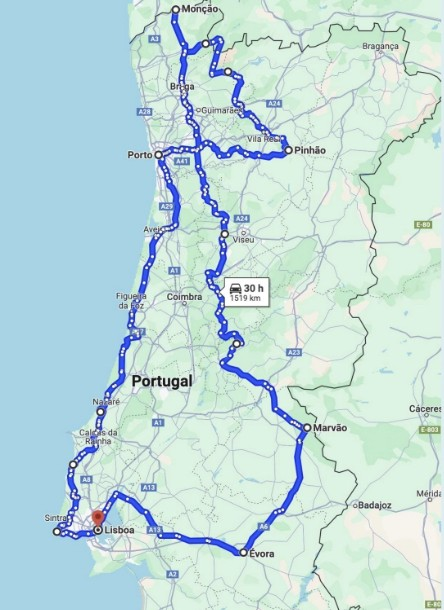
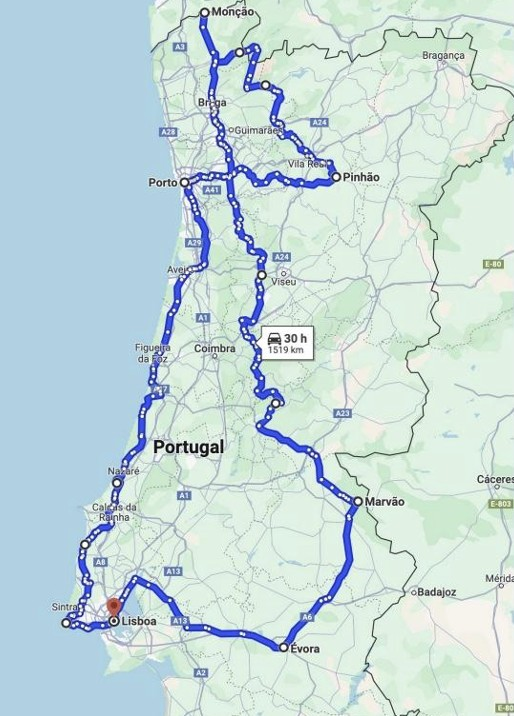
c

diff --git a/index.html b/index.html
@@ -15,12 +15,12 @@
 <main class="wrap">
 <section class="hero hero-split">
 <div><p class="kicker">Motorcycle rides · 2024</p><h1>Portugal</h1>
-<dl class="stats"><div class="stat"><dt>Rides</dt><dd>2</dd></div><div class="stat"><dt>Days on the road</dt><dd>14</dd></div><div class="stat"><dt>Years</dt><dd>2024</dd></div></dl></div>
+<dl class="stats"><div class="stat"><dt>Rides</dt><dd>1</dd></div><div class="stat"><dt>Days on the road</dt><dd>9</dd></div><div class="stat"><dt>Years</dt><dd>2024</dd></div></dl></div>
 <svg class="silhouette" viewBox="0 0 600 400" preserveAspectRatio="xMidYMid meet" role="img" aria-label="Outline of Portugal"><path d="M246,21L251,16L257,13L260,11L272,8L275,6L279,6L279,8L281,11L283,14L283,15L279,22L278,25L281,30L281,31L282,31L286,31L292,28L296,26L297,27L309,25L312,27L314,28L319,30L326,30L334,27L337,25L338,22L338,20L339,19L341,18L344,19L348,21L357,21L359,20L362,20L366,22L371,21L374,24L375,27L375,33L375,40L376,42L379,43L385,43L390,45L393,48L395,51L395,53L393,55L391,59L384,65L375,71L367,78L362,86L356,90L354,92L353,94L358,104L359,112L360,121L359,124L359,134L358,137L358,140L360,142L360,145L357,148L352,152L348,155L347,158L348,160L354,167L355,169L355,176L351,186L347,193L347,193L342,195L323,195L318,197L319,198L323,206L328,211L330,212L331,221L339,236L347,238L349,242L349,248L347,254L342,260L336,264L333,268L333,273L331,279L330,284L329,287L343,308L351,307L352,307L350,312L348,318L345,319L339,320L332,328L327,337L323,341L320,352L320,356L322,363L326,381L321,382L301,394L295,394L283,389L263,387L256,386L248,389L242,389L236,393L233,392L237,382L244,363L243,351L245,341L243,330L240,324L244,307L244,299L240,288L252,290L248,285L244,283L241,283L238,283L227,287L222,289L220,288L221,281L218,272L222,270L227,269L232,266L234,261L233,254L236,247L245,241L240,242L235,245L227,259L225,266L218,268L212,269L209,268L205,267L205,262L205,258L208,250L209,238L212,228L212,225L211,221L214,217L218,215L224,206L232,185L242,162L242,159L239,157L240,151L246,125L248,121L251,113L252,101L253,92L253,88L252,83L248,72L244,51L244,44L247,40L242,40L239,35L240,30Z"/></svg>
 </section>
 <section class="section" aria-labelledby="r-h">
 <div class="section-head"><h2 id="r-h">Rides</h2><p class="section-note">Newest first</p></div>
-<div class="year-group"><div class="year">2024</div><ul class="rides"><li class="ride"><div class="ride-main"><p class="ride-title"><a href="/portugal/2024-portugal/">Portugal</a></p><p class="ride-meta">Oct 7–15, 2024 · 9 days · ~944 mi</p></div><div class="links"><a class="lk primary" href="/portugal/2024-portugal/"><svg viewBox="0 0 24 24"><path d="M5 12h14M13 6l6 6-6 6"/></svg>Trip page</a><a class="lk" href="https://acrobat.adobe.com/id/urn:aaid:sc:VA6C2:802417a8-d099-4c4d-85f0-cedbb38bf4dc" target=_blank rel=noopener><svg viewBox="0 0 24 24"><path d="M14 3H6v18h12V7z"/><path d="M14 3v4h4"/></svg>Itinerary (PDF)</a></div></li><li class="ride"><div class="ride-main"><p class="ride-title"><a href="/spain/2024-spain-portugal/">Spain to Portugal: Madrid to Lisbon</a></p><p class="ride-meta">Oct 1–5, 2024 · 5 days · ~782 mi · <a href="/spain/">Spain</a></p></div><div class="links"><a class="lk primary" href="/spain/2024-spain-portugal/"><svg viewBox="0 0 24 24"><path d="M5 12h14M13 6l6 6-6 6"/></svg>Trip page</a></div></li></ul></div>
+<div class="year-group"><div class="year">2024</div><ul class="rides"><li class="ride"><div class="ride-main"><p class="ride-title"><a href="/portugal/2024-portugal/">Portugal</a></p><p class="ride-meta">Oct 7–15, 2024 · 9 days · ~944 mi</p></div><div class="links"><a class="lk primary" href="/portugal/2024-portugal/"><svg viewBox="0 0 24 24"><path d="M5 12h14M13 6l6 6-6 6"/></svg>Trip page</a><a class="lk" href="https://acrobat.adobe.com/id/urn:aaid:sc:VA6C2:802417a8-d099-4c4d-85f0-cedbb38bf4dc" target=_blank rel=noopener><svg viewBox="0 0 24 24"><path d="M14 3H6v18h12V7z"/><path d="M14 3v4h4"/></svg>Itinerary (PDF)</a></div></li></ul></div>
 </section>
 <section class="section"><div class="section-head"><h2>Resources</h2></div><div class="res"><a href="https://portugalmotorcycletours.com/" target="_blank" rel="noopener"><span>Tour operator</span><b>Portugal Motorcycle Tours</b></a></div></section>
 </main>

diff --git a/2024-portugal/index.html b/2024-portugal/index.html
@@ -19,7 +19,7 @@
 <dl class="stats"><div class="stat"><dt>miles</dt><dd>~944</dd></div><div class="stat"><dt>days</dt><dd>9</dd></div><div class="stat"><dt>country</dt><dd>1</dd></div></dl></div>
 <figure class="rm-fig"><a href="photos/route-map.jpg" target="_blank" rel="noopener"><img class="routemap" src="photos/route-map.jpg" alt="Route map of the ride"></a><figcaption>The full loop, about 1,519 km.</figcaption></figure>
 </section>
-
+<aside class="road callout"><p class="road-tag">Ridden with</p><h3><a href="https://portugalmotorcycletours.com/north-tour/" target="_blank" rel="noopener">Portugal Motorcycle Tours — North Tour</a></h3><p>This loop was the guided North Tour from Lisbon: the Atlantic coast, a food tour in Porto, the Douro Valley, Trás-os-Montes, Peneda-Gerês and the N2 back south. Highly recommended if you want to ride Portugal with people who know every back road.</p></aside>
 <nav class="daychips" aria-label="Days"><a href="#day0">The loop</a></nav>
 <article class="tday" id="day0"><header class="tday-head"><p class="tday-date"><b>The loop</b></p><h2>Lisbon around Portugal and back</h2></header><div class="tday-body"><div class="tday-main"><p class="side-k">By way of</p><ul class="sights"><li>Lisbon</li><li>Sintra</li><li>Nazaré</li><li>Porto</li><li>Monção</li><li>Pinhão (Douro Valley)</li><li>Viseu</li><li>Marvão</li><li>Évora</li><li>Lisbon</li></ul></div><div class="tday-side"></div></div></article>
 <p class="backlink"><a href="/portugal/">← All Portugal rides</a></p>
